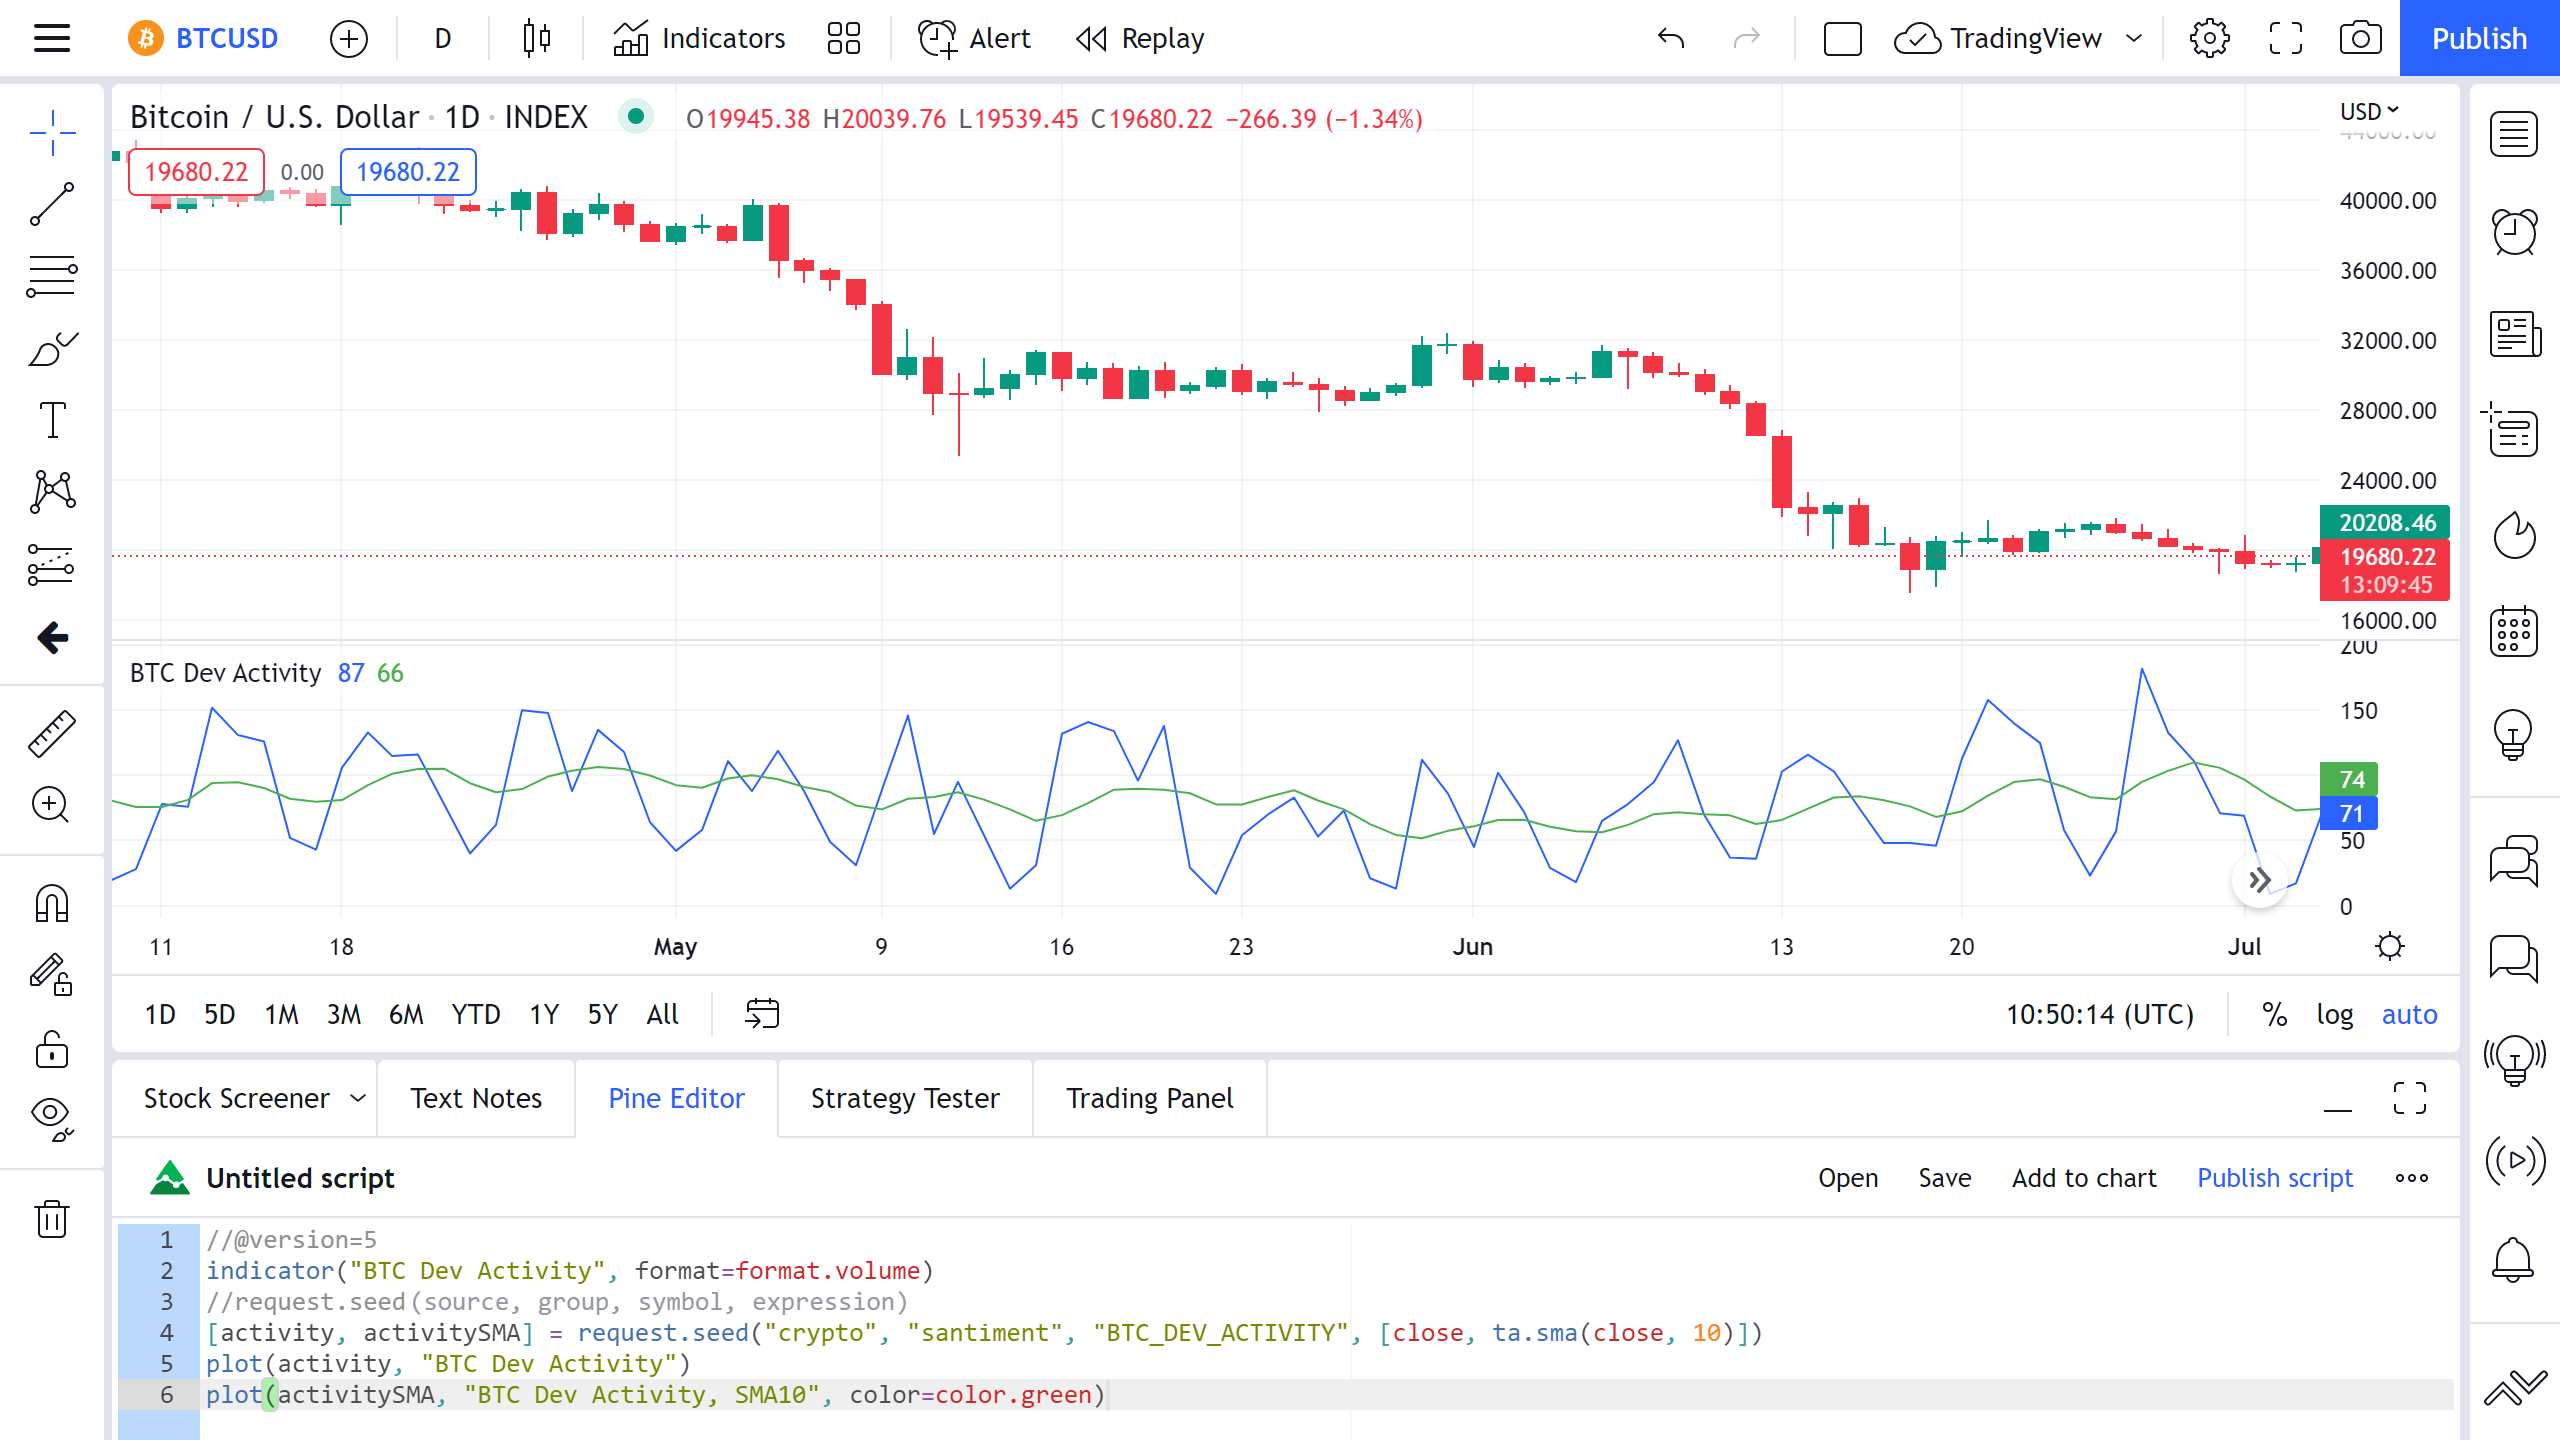
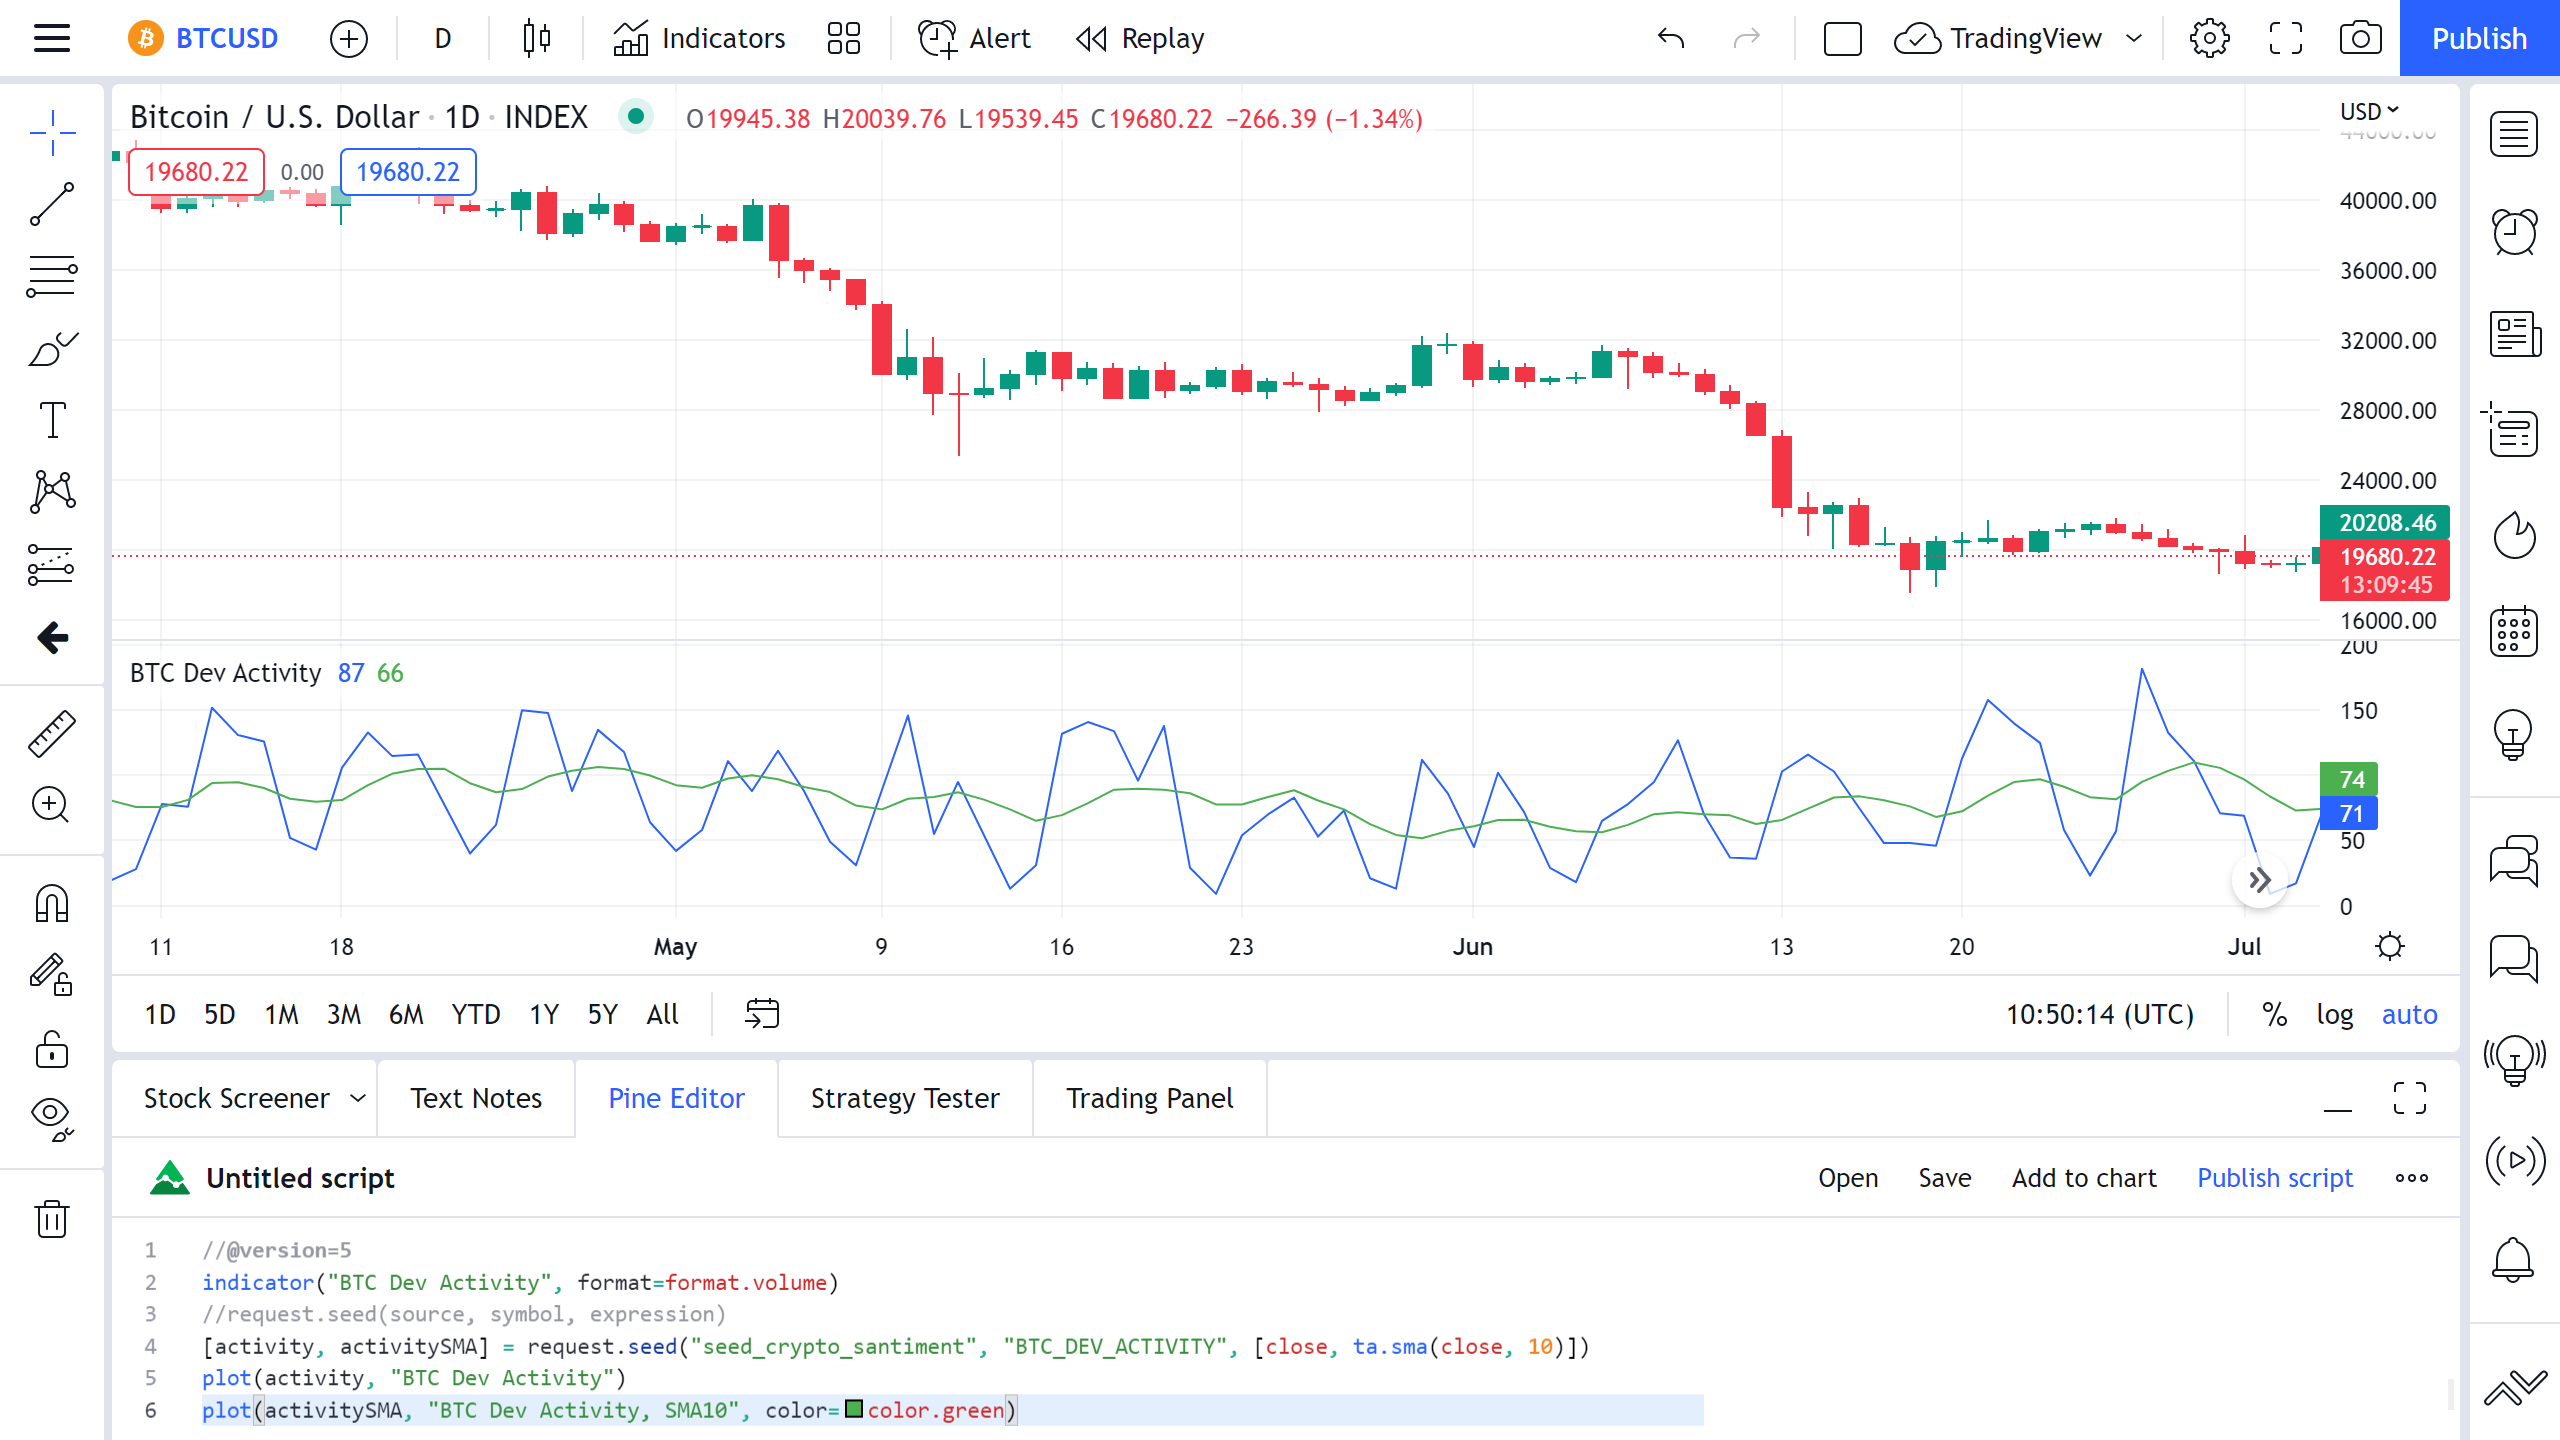
WRT-413: Review changes

Changed region(s): [[0.0312, 0.8438, 0.6875, 1.0]]

diff --git a/ui.md b/ui.md
@@ -24,31 +24,30 @@ __[Pine editor](#pine-editor)__
 An editor for the Pine Script™ scripting language. The data can be accessed with a couple of lines of code.
 A flexible and convenient tool for displaying data on the chart.
 
-## Symbol search
+## Symbol Search
 
-Symbol search is the first entry point to access the data on the TradingView chart.
+_Symbol Search_ is the entry point to access symbol data on the TradingView chart.
+To switch between symbols, type a symbol name in the _Symbol Search_ box and press <kbd>Enter</kbd>.
 
-The symbol name on the TradingView chart is uniquely determined by the Github parameters:
+Note that symbols will not appear in the _Symbol Search_ suggestion field.
+Hence, you need to know the full symbol name to open it on the chart.
 
-- `SEED` is a mandatory prefix for data of this type
-- the GitHub account name
-- the suffix for the GitHub repository name
-- the name of the symbol, coincides with the name of the data file
+The symbol name on the TradingView chart is uniquely determined by the GitHub parameters:
+
+- The required `SEED` prefix.
+- The GitHub account name.
+- The suffix of the GitHub repository name.
+- A symbol name that matches the name of the data file.
 
 |![Symbol Search][ui_search]|
 |-|
 
 For example, the full name of the `SEED_CRYPTO_SANTIMENT:BTC_DEV_ACTIVITY` symbol is obtained as follows:
 
-- `SEED` — prefix
-- `CRYPTO` — the account name `github.com/crypto`
-- `SANTIMENT` — the suffix of the repository name `github.com/crypto/seed_crypto_santiment` 
-- `BTC_DEV_ACTIVITY` — the name of the `BTC_DEV_ACTIVITY.CSV` data file
-
-> __Note__
->
-> EOD symbols will not appear in the symbol search suggestion field. 
-> Type the full symbol name and press _Enter_ in order for it to appear on the chart.
+- `SEED` — the required prefix.
+- `CRYPTO` — the account name `github.com/crypto`.
+- `SANTIMENT` — the suffix of the repository name `github.com/crypto/seed_crypto_santiment`.
+- `BTC_DEV_ACTIVITY` — the symbol name that matches the name of the `BTC_DEV_ACTIVITY.CSV` data file.
 
 ## Chart
 
@@ -73,23 +72,22 @@ In this case the _Candles_ chart type will be more useful, as it displays all fo
 
 ## Pine Editor
 
-Pine Script™ is one more tool for working with your custom data on TradingView. 
-Unlike the symbol search, which changes the main symbol on the chart, indicators written in Pine Script™ are an addition to the currently open symbol.
-
-You can request custom data with the [`request.seed()`][request_seed] built-in function:
+[Pine Script™] is another tool for working with your custom data on TradingView.
+It allows you to write your own indicators for a symbol to make data easier to analyze.
+For example, you can request custom data with the [`request.seed()`][request_seed] built-in function:
 
 ```js
-request.seed(source, group, symbol, expression, gaps)
+request.seed(source, symbol, expression, gaps)
 ```
 
-When you call the function, the first three parameters define the data source:
+When you call the function, the first two parameters define the data source:
 
-- `source` — a group of symbols, coincides with the GitHub repository name
-- `symbol` — the name of the symbol in the group that corresponds to a specific data file
+- `source` — a group of symbols whose name matches the GitHub repository name.
+- `symbol` — a name of the symbol in the group that corresponds to a specific data file.
 
-These parameters uniquely determine the requested series so they can't be empty strings.
+Note that these parameters uniquely determine the requested series so they can't be empty strings.
 
-The `expression` parameter specifies what data series you request from the specified symbol, 
+The `expression` parameter specifies what data series you request from the specified symbol,
 and the optional `gaps` argument controls whether the gaps between data values should be filled.
 
 For example, the `SEED_CRYPTO_SANTIMENT:BTC_DEV_ACTIVITY` close values can be requested in Pine Script™ as:
@@ -130,3 +128,5 @@ from the EOD source on your chart and its 10-day average without changing the sy
 
 |![ui_pine_btc]|
 |-|
+
+[Pine Script™]: https://www.tradingview.com/pine-script-docs/en/v5/index.html

diff --git a/data_tutorial.md b/data_tutorial.md
@@ -44,18 +44,23 @@ This tutorial describes the steps to add symbols to the TradingView chart at onc
 
 ## Remove symbol and data
 
-If you need to remove a symbol and its data, you should follow the steps below:
+If you need to remove a symbol and its data, follow the steps below:
 
 1. Delete a CSV file with symbol data from the `data/` directory.
 2. In your repository, open *Actions* and check if the *Check data* action finished successfully.
 3. In the main repository, open *Actions* and check if the *Upload data* action finished successfully.
-4. Remove the information about a symbol from the JSON file in the `symbol_info/repo_name.json` directory
->NOTE
->
->You can remove both data file and symbol from symbol_info at once in one PR. If you do so check 5-7
+4. Remove the information about a symbol from the JSON file in the `symbol_info/repo_name.json` directory.
 5. In your repository, open *Actions* and check if the *Check data* action finished successfully.
 6. In the main repository, open *Actions* and check if the *Upload data* action finished successfully.
-7. In the main repository, Go to *Pull requests* and check that the pull request was merged automatically.
+7. In the main repository, go to *Pull requests* and check that the pull request was merged automatically.
     If it was not merged automatically, check the *Conversation* tab in your pull request for validation warnings or errors.
 
+> __Note__
+>
+> You can remove both a data file from `data/` and a symbol from `symbol_info/repo_name.json` at once.
+> To do this, you need to make changes in one [commit] and [push] it to your main branch.
+> After that, you will only need to follow the 5−7 steps from the instructions above.
+
+[commit]: https://docs.github.com/en/pull-requests/committing-changes-to-your-project/creating-and-editing-commits/about-commits
+[push]: https://github.com/git-guides/git-push
 [tv-chart]: https://www.tradingview.com/chart/

diff --git a/faq.md b/faq.md
@@ -128,7 +128,8 @@ You need to make a new commit, and all previous data changes will be pulled.
 #### Q: What if my pull request was not merged automatically?
 
 __A:__ Check the action logs for validation warnings and errors.
-If you cannot fix the problem, contact us at pine.seeds@tradingview.com. Our support team is available on weekdays from 7 AM to 4 PM UTC.
+If you cannot fix the problem, contact us at pine.seeds@tradingview.com.
+Our support team is available on weekdays from 7 AM to 4 PM UTC.
 
 [data_format]: data.md#data-format
 [daily number of pull requests]: #q-what-if-i-made-more-than-5-pull-requests-in-a-day
